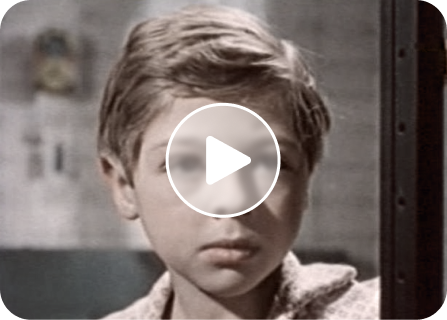
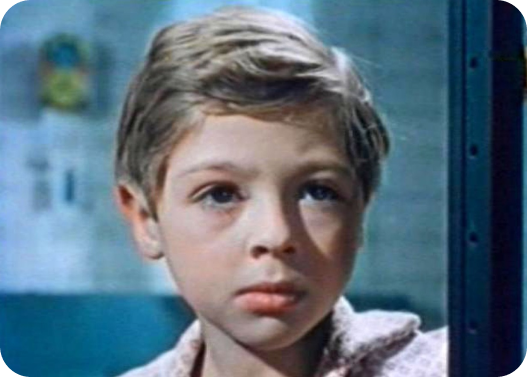
upd

diff --git a/index.html b/index.html
@@ -60,19 +60,22 @@
                         <path d="M24 3L3.41421 23.5858C2.63317 24.3668 2.63317 25.6332 3.41421 26.4142L24 47" stroke="white" stroke-opacity="0.2" stroke-width="5" stroke-linecap="round"/>
                     </svg>
                 </button>
-                <div class="flex flex-col gap-7 items-center text-center self-start">
+                <div class="flex flex-col gap-7 items-center text-center self-start relative">
                     <p class="text-[#AEAEAE]">Экранизация 1960 года</p>
-                    <img src="Assets/Images/main/slider1.png" alt="">
+                    <img src="Assets/Images/main/slider1.png" alt="" class="transition-all duration-500 grayscale hover:grayscale-0 peer">
+                    <img src="Assets/Images/main/play.svg" alt="" class="absolute top-1/2 -translate-y-1/2 left-1/2 -translate-x-1/2 transition-all duration-500 peer-hover:opacity-0">
                     <p class="text-white">Весёлые истории</p>
                 </div>
-                <div class="flex flex-col gap-7 items-center text-center self-start">
+                <div class="flex flex-col gap-7 items-center text-center self-start relative">
                     <p class="text-[#AEAEAE]">Экранизация 1970 года</p>
-                    <img src="Assets/Images/main/slider2.png" alt="">
+                    <img src="Assets/Images/main/slider2.png" alt="" class="transition-all duration-500 grayscale hover:grayscale-0 peer">
+                    <img src="Assets/Images/main/play.svg" alt="" class="absolute top-1/2 -translate-y-1/2 left-1/2 -translate-x-1/2 transition-all duration-500 peer-hover:opacity-0">
                     <p class="text-white">Денискины рассказы</p>
                 </div>
-                <div class="flex flex-col gap-7 items-center text-center self-start">
+                <div class="flex flex-col gap-7 items-center text-center self-start relative">
                     <p class="text-[#AEAEAE]">Экранизация 1979 года</p>
-                    <img src="Assets/Images/main/slider3.png" alt="">
+                    <img src="Assets/Images/main/slider3.png" alt="" class="transition-all duration-500 grayscale hover:grayscale-0 peer">
+                    <img src="Assets/Images/main/play.svg" alt="" class="absolute top-1/2 -translate-y-1/2 left-1/2 -translate-x-1/2 transition-all duration-500 peer-hover:opacity-0">
                     <p class="text-white">Приключения <br> Дениса Кораблёва</p>
                 </div>
                 <button>
